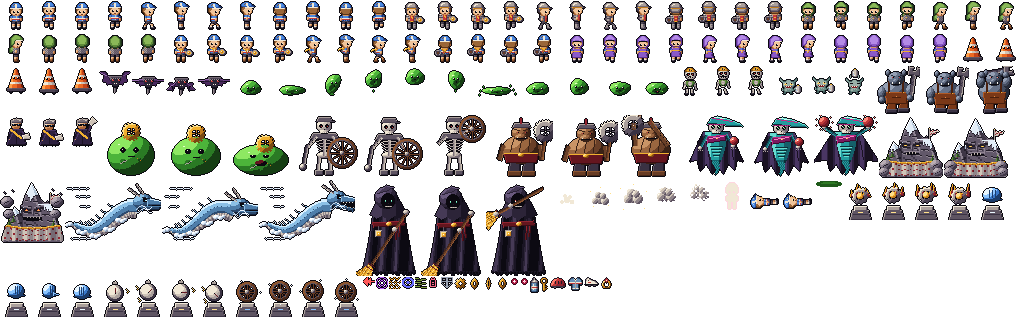
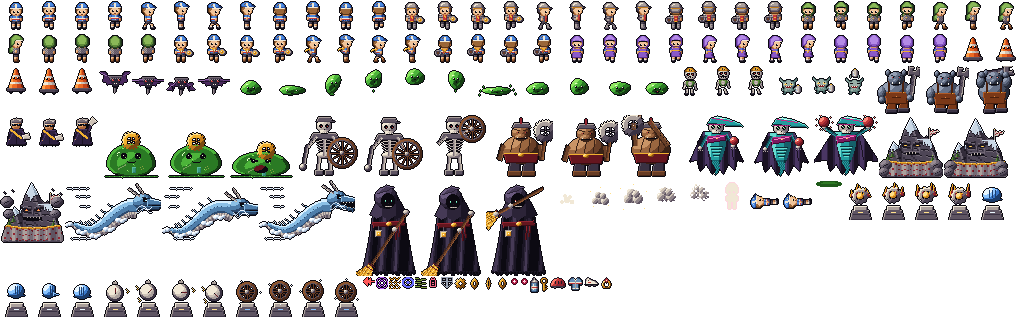
Purgatour: King Gel repaint, crisp minimap, hit flash ignores damage-over-time
- King Gel redrawn as translucent jelly with swallowed loot, bubbles and a goo puddle
- Minimap renders at whole pixels per tile with outlined rooms, a stairs icon and a pulsing hero diamond
- Hit flash fires per real hit (rate-limited, DoT ticks ignored), so burning bosses no longer look washed out
- King of the Mountains palette toned down; overlapping damage numbers spread apart

Claude-Session: https://claude.ai/code/session_01ADd9axuUZiyWLZNYirszBj

Changed region(s): [[0.0938, 0.3691, 0.2812, 0.5678], [0.8438, 0.3975, 1.0, 0.5678], [0.0, 0.5962, 0.0625, 0.7666]]

diff --git a/src/games/dungeon/render/renderer.ts b/src/games/dungeon/render/renderer.ts
@@ -163,6 +163,7 @@ export function createRenderer(): GameRenderer {
   // the DNF beat: when a run ends, the last frame freezes, the hero crumples (3-frame fall) and the screen fades before camp
   type HeroPin = { x: number; y: number; scale: number; angle: number };
   let bossChip = 1, bossChipName = '';
+  const flashAt = new Map<number, number>(), hpSeen = new Map<number, number>();
   let hideHero = false, lastRun: { s: DungeonSnapshot; bike: Readonly<BikeState>; input: Readonly<InputState> } | null = null;
   let swapFx: { t0: number; c: string; from: string } | null = null, lastStance = '';
   let lastHero: HeroPin | null = null, prevPhase = '', dnf: { t0: number; img: HTMLCanvasElement; hero: HeroPin } | null = null;
@@ -302,7 +303,11 @@ export function createRenderer(): GameRenderer {
     const fr = anim(name, st, t + e.id * 0.13, e.kind === 'bat' ? 10 : 7);
     const def = sprite2(name, fr.state, fr.idx, pal, false, scale);
     const ps = 1; // all actor pixels are the same size as one background pixel
-    const flash = e.hurt < (isBoss ? 0.035 : 0.06);
+    // hit flash: a short pop per hit, rate-limited so damage over time or rapid fire never leaves it washed out
+    // (damage-over-time ticks are too small to count as a hit)
+    let fl0 = flashAt.get(e.id) ?? -9; const hp0 = hpSeen.get(e.id) ?? e.hp; hpSeen.set(e.id, e.hp);
+    if (e.hurt < 0.06 && hp0 - e.hp > e.maxHp * (isBoss ? 0.004 : 0.03) && t - fl0 > 0.12) { fl0 = t; if (flashAt.size > 512) { flashAt.clear(); hpSeen.clear(); } flashAt.set(e.id, t); }
+    const flash = t - fl0 < 0.06;
     const bob = e.kind === 'bat' ? Math.sin(t * 14 + e.id) * TS * 0.12 : -Math.abs(Math.sin(t * 8 + e.id)) * TS * 0.05;
     shadow(x, y, e.r * TS * 0.9);
     if (e.elite) { gg.globalCompositeOperation = 'lighter'; glowAt(ELITE_COLORS[e.elite], x, y - e.r * TS, e.r * TS * (2 + Math.sin(t * 5 + e.id) * 0.2), 0.55); gg.globalCompositeOperation = 'source-over'; }
@@ -1043,27 +1048,31 @@ export function createRenderer(): GameRenderer {
     gg.globalAlpha = 1;
 
     // minimap with fog (top-right)
-    const w = s.world, mm = Math.max(1, Math.round(MM * u * 0.8));
-    const mScale = Math.min(0.55, (110 * u) / Math.max(1, w.w * mm)); // drawn at ~half size, capped at ~110u wide
-    if (!mini || mini.width !== w.w * mm) { mini = document.createElement('canvas'); mini.width = w.w * mm; mini.height = w.h * mm; }
+    // crisp: one whole number of device pixels per tile, no resampling
+    const w = s.world, mm = Math.max(1, Math.floor((118 * u) / Math.max(1, w.w)));
+    if (!mini || mini.width !== w.w * mm || mini.height !== w.h * mm) { mini = document.createElement('canvas'); mini.width = w.w * mm; mini.height = w.h * mm; }
     const m = mini.getContext('2d')!;
     m.clearRect(0, 0, mini.width, mini.height);
+    for (let i = 0; i < w.tiles.length; i++) if (w.tiles[i] === TILE.DOOR && w.rooms[w.doorRoom[i]]?.seen) { m.fillStyle = '#9a8458'; m.fillRect((i % w.w) * mm, Math.floor(i / w.w) * mm, mm, mm); }
     for (const r of w.rooms) {
       if (!r.seen) continue;
-      m.fillStyle = r.id === s.room ? '#8a8fa0' : r.cleared ? '#4a6a52' : r.boss ? '#6a3a5a' : '#555a66';
-      m.fillRect(r.x0 * mm, r.y0 * mm, r.w * mm, r.h * mm);
-      if (r.chest && !r.chest.opened) { m.fillStyle = '#ffd84a'; m.fillRect((r.chest.x - 1) * mm, (r.chest.y - 1) * mm, 2 * mm, 2 * mm); }
+      const here = r.id === s.room, fill = here ? '#6e6a84' : r.cleared ? '#3c5844' : r.boss ? '#5a2a46' : '#46445a', edge = here ? '#d8d0f0' : r.cleared ? '#6a9a72' : r.boss ? '#c0507a' : '#7a7890';
+      m.fillStyle = edge; m.fillRect(r.x0 * mm, r.y0 * mm, r.w * mm, r.h * mm);
+      m.fillStyle = fill; m.fillRect(r.x0 * mm + 1, r.y0 * mm + 1, r.w * mm - 2, r.h * mm - 2);
+      if (r.chest && !r.chest.opened) { m.fillStyle = '#2a1d00'; m.fillRect((r.chest.x - 1) * mm - 1, (r.chest.y - 1) * mm - 1, 2 * mm + 2, 2 * mm + 2); m.fillStyle = '#ffd84a'; m.fillRect((r.chest.x - 1) * mm, (r.chest.y - 1) * mm, 2 * mm, 2 * mm); }
     }
-    for (let i = 0; i < w.tiles.length; i++) if (w.tiles[i] === TILE.DOOR && w.rooms[w.doorRoom[i]]?.seen) { m.fillStyle = '#7a6a4a'; m.fillRect((i % w.w) * mm, Math.floor(i / w.w) * mm, mm, mm); }
     const br = w.rooms.find((r) => r.boss);
-    if (br?.seen) { m.fillStyle = s.stairsOpen ? '#ffd84a' : '#a07a2a'; m.fillRect((w.stairs.x - 1) * mm, (w.stairs.y - 1) * mm, 2 * mm, 2 * mm); }
-    const mw = mini.width * mScale, mh = mini.height * mScale, mx0 = W - mw - L, my0 = L, mk = mm * mScale;
-    pixelPanel(gg,mx0-3,my0-3,mw+6,mh+6,'#655572','#171320cc',dpr); hudBox(mx0 - 3, my0 - 3, mw + 6, mh + 6);
-    gg.globalAlpha = 0.8; gg.drawImage(mini, mx0, my0, mw, mh); gg.globalAlpha = 1;
+    if (br?.seen) { const sx = Math.floor(w.stairs.x) * mm, sy = Math.floor(w.stairs.y) * mm; m.fillStyle = '#0a0810'; m.fillRect(sx - mm, sy - mm, 3 * mm, 3 * mm); m.fillStyle = s.stairsOpen ? '#ffd84a' : '#a07a2a'; for (let k = 0; k < 3; k++) m.fillRect(sx - mm + k * mm, sy - mm + k * mm, (3 - k) * mm, mm); }
+    const mw = mini.width, mh = mini.height, mx0 = Math.round(W - mw - L), my0 = Math.round(L), mk = mm;
+    pixelPanel(gg,mx0-4*dpr,my0-4*dpr,mw+8*dpr,mh+8*dpr,'#655572','#120e18dd',dpr); hudBox(mx0 - 4 * dpr, my0 - 4 * dpr, mw + 8 * dpr, mh + 8 * dpr);
+    gg.imageSmoothingEnabled = false; gg.drawImage(mini, mx0, my0);
     for (const e of s.enemies) if (e.kind === 'boss' || w.rooms[s.room] && e.x >= w.rooms[s.room].x0 && e.x <= w.rooms[s.room].x0 + w.rooms[s.room].w && e.y >= w.rooms[s.room].y0 && e.y <= w.rooms[s.room].y0 + w.rooms[s.room].h) {
-      gg.fillStyle = ENEMY_TINT[e.kind] ?? '#e55'; gg.fillRect(mx0 + e.x * mk - 1, my0 + e.y * mk - 1, 2.5 * u, 2.5 * u);
+      const sz = Math.max(2, Math.round((e.kind === 'boss' ? 3 : 2) * dpr)); gg.fillStyle = ENEMY_TINT[e.kind] ?? '#e55'; gg.fillRect(Math.round(mx0 + e.x * mk - sz / 2), Math.round(my0 + e.y * mk - sz / 2), sz, sz);
     }
-    gg.fillStyle = color; gg.fillRect(mx0 + p.x * mk - 2 * u, my0 + p.y * mk - 2 * u, 4 * u, 4 * u);
+    { // the hero: an outlined diamond that pulses
+      const hx0 = Math.round(mx0 + p.x * mk), hy0 = Math.round(my0 + p.y * mk), R = Math.round((2.5 + (Math.sin(s.t * 6) > 0 ? 0.5 : 0)) * dpr);
+      for (const [rr, c] of [[R + dpr, '#0a0810'], [R, '#ffffff'], [Math.max(1, R - dpr), color]] as const) { gg.fillStyle = c; gg.beginPath(); gg.moveTo(hx0, hy0 - rr); gg.lineTo(hx0 + rr, hy0); gg.lineTo(hx0, hy0 + rr); gg.lineTo(hx0 - rr, hy0); gg.fill(); }
+    }
 
     if (s.boss && s.boss.active) {
       const BR=bossHudLayout(W,H,insetCss*dpr,hu),bw=BR.w,bx=BR.x,by=BR.y;

diff --git a/src/games/dungeon/render/fx32.ts b/src/games/dungeon/render/fx32.ts
@@ -136,7 +136,7 @@ export const isNumberText = (t: string | undefined) => !!t && /^[+-]?\d{1,6}$/.t
 export function drawNumber32(g: CanvasRenderingContext2D, text: string, color: string, x: number, y: number, k: number, big: boolean, seed: number) {
   const s = big ? 2 : 1, c = numberSprite(text, color, s);
   const rise = k < 0.35 ? 1 - (1 - k / 0.35) ** 3 : 1 - (k - 0.35) * 0.25;
-  const dx = (seed % 7 - 3) * k * 2, shake = big && k < 0.15 ? ((Math.floor(k * 60) % 2) * 2 - 1) : 0;
+  const dx = (seed % 7 - 3) * (2 + k * 2), shake = big && k < 0.15 ? ((Math.floor(k * 60) % 2) * 2 - 1) : 0;
   g.globalAlpha = k > 0.75 ? 1 - (k - 0.75) / 0.25 : 1;
   g.drawImage(c, Math.round(x - c.width / 2 + dx + shake), Math.round(y - rise * (big ? 18 : 13) - c.height));
   g.globalAlpha = 1;

diff --git a/tools/purgatour-art/bosses2.py b/tools/purgatour-art/bosses2.py
@@ -14,7 +14,7 @@ def h2(x, y, s=0):
 MOSS = R('#1a2c18', '#2e4a26', '#5e8a3a', '#9ac45a')
 
 # ------------------------------------------------------------------ King of the Mountains: a living mountain in the KOM mantle
-ROCK = R('#221d28', '#3e3646', '#62586a', '#8f8492', '#b9adb4'); SNOW = R('#6f8296', '#b4c6d8', '#e4eef8', '#ffffff')
+ROCK = R('#1c1822', '#332c3a', '#4e4656', '#706774', '#958a94'); SNOW = R('#5e6e80', '#98aabc', '#cad8e6', '#eef6ff')
 def king_of_mountains(fr=0, atk=False):
     cv = Cv(64, 64); b = fr % 2
     peaks = [(31, 3 + b), (14, 27 + b), (50, 24 + b)]
@@ -94,12 +94,12 @@ def king_of_mountains(fr=0, atk=False):
     for x in range(2, 63):
         for y in range(top(x), 62):
             if not (inside(x, y) or inside(x - 2, y) or inside(x + 2, y)) or y > 60 - (1 if (x // 3) % 2 else 0): continue
-            fold = math.sin(x * 0.55 + 0.6) ; base = 10 if fold > .55 else 9 if fold > -.35 else 8
+            fold = math.sin(x * 0.55 + 0.6) ; base = 9 if fold > .55 else 8 if fold > -.35 else 7
             if x > 46: base -= 1
             u, v = (x + (y // 5) % 2 * 3) % 6, (y - top(x)) % 5
             dot = u in (1, 2) and v in (2, 3)
             c = C(base)
-            if dot: c = RED[2] if base >= 9 else RED[1]
+            if dot: c = RED[2] if base >= 8 else RED[1]
             if y == top(x): c = GOLD[2]
             elif y == top(x) + 1: c = GOLD[1]
             cv.set(x, y, c)
@@ -303,10 +303,58 @@ def lycra_lich(fr=0, atk=False):
         cv.ell(50, 26 + f, 4, 4, orb); cv.set(48, 24 + f, hx('#ffffff'))
     return cv.done()
 
+# ------------------------------------------------------------------ King Gel: a translucent jelly king with its swallowed loot showing through
+from chars import GEL
+from bosses import chainring
+def king_gel(fr=0, atk=False):
+    cv = Cv(64, 64); sq = fr % 2
+    rx, ry = (28, 15) if atk else (24 + sq, 20 - sq)
+    cy = round(61 - ry * .62)
+    G = GEL
+    for y in range(int(cy - ry - 1), 62):
+        for x in range(int(32 - rx - 1), int(32 + rx + 2)):
+            nx, ny = (x + .5 - 32) / rx, (y + .5 - cy) / ry
+            if ny > 0: ny *= 1.6   # flatter base where it sags on the floor
+            d = nx * nx + ny * ny
+            if d > 1 or y > 61: continue
+            rim = d > .78
+            l = -.55 * nx - .6 * ny
+            k = 1
+            if rim: k = 2 if l > -.1 else 0            # bright rim on the lit side, deep edge on the dark side
+            elif d < .35: k = 2 if l > .15 else 1      # glowing core
+            if y >= 60: k = 0
+            cv.set(x, y, G[k])
+    # the things it swallowed, dimmed by the gel
+    def dim(c): return G[0] if c != G[1] else c
+    cv.line(19, cy + 4, 26, cy + 1, hx('#7aa060')); cv.set(19, cy + 5, hx('#7aa060')); cv.set(26, cy, hx('#7aa060'))   # a bone
+    for (x, y) in ((41, cy + 3), (43, cy + 2), (42, cy + 5), (44, cy + 4)): cv.set(x, y, hx('#8aa040'))                     # a coin
+    cv.poly([(33, cy + 3), (36, cy + 3), (36, cy + 8), (33, cy + 8)], [hx('#2a7a6a'), hx('#3a9a80'), hx('#5abaa0'), hx('#8adac0')], 1)   # a bidon
+    # bubbles rising inside
+    for i in range(4):
+        ph = (fr * .5 + i * .27) % 1
+        bx, by = 22 + i * 6, cy + ry * .6 - ph * ry * 1.1
+        cv.set(bx, by, G[3]); cv.set(bx + 1, by + 1, G[2])
+    # specular highlights
+    for (x, y) in ((18, cy - ry * .55), (19, cy - ry * .6), (20, cy - ry * .62), (18, cy - ry * .45)): cv.set(x, y, G[4])
+    cv.set(23, cy - ry * .78, G[3]); cv.set(24, cy - ry * .8, G[3])
+    # face
+    ey = cy - ry * .45
+    for ex in (25, 39):
+        if atk: cv.line(ex - 3, ey - 1, ex + 3, ey + 1 if ex < 32 else ey - 3, C(0), 2)
+        cv.ell(ex, ey + 1, 3, 3 if not atk else 2, [C(0)] * 4, spec=False); cv.set(ex - 1, ey, C(11)); cv.set(ex + 1, ey + 2, G[3])
+    if atk: cv.ell(32, ey + 9, 7, 4, [C(0), C(0), RED[1], RED[2]], spec=False)
+    else:
+        cv.line(29, ey + 7, 35, ey + 7, C(0)); cv.set(28, ey + 6, C(0)); cv.set(36, ey + 6, C(0))
+    # drips at the base and a goo puddle
+    for x in range(int(32 - rx - 2), int(32 + rx + 3)):   # a goo puddle where it sits
+        if cv.get(x, 61)[3] == 0: cv.set(x, 61, G[1] if x % 5 else G[2])
+    chainring(cv, 32 + (5 if atk else 0), cy - ry - 3 + (2 if atk else 0), 8)   # the crown: a big chainring
+    return cv.done()
+
 if __name__ == '__main__':
     from PIL import Image
     from chars import flash
-    fns = [king_of_mountains, headwind_wyrm, grim_sweeper, lycra_lich]
+    fns = [king_gel, king_of_mountains, headwind_wyrm, grim_sweeper, lycra_lich]
     o = Image.new('RGBA', (4 * 100 + 4, len(fns) * 100 + 4), C(3))
     for r, fn in enumerate(fns):
         for c, im in enumerate([fn(0), fn(1), fn(0, True), flash(fn(0))]): o.alpha_composite(im, (4 + c * 100, 4 + r * 100))

diff --git a/tools/purgatour-art/bosses.py b/tools/purgatour-art/bosses.py
@@ -208,7 +208,7 @@ def grim_sweeper(fr=0, atk=False):
 BOSSES = [('King Gel', king_gel), ('The Boneshaker', boneshaker), ('The Gear Masher', gear_masher), ('The Lycra Lich', lycra_lich),
           ('King of the Mountains', king_of_mountains), ('The Headwind Wyrm', headwind_wyrm), ('The Grim Sweeper', grim_sweeper)]
 import bosses2 as _B2   # round 23 repaints replace the weaker four
-BOSSES = BOSSES[:3] + [('The Lycra Lich', _B2.lycra_lich), ('King of the Mountains', _B2.king_of_mountains),
+BOSSES = [('King Gel', _B2.king_gel)] + BOSSES[1:3] + [('The Lycra Lich', _B2.lycra_lich), ('King of the Mountains', _B2.king_of_mountains),
                        ('The Headwind Wyrm', _B2.headwind_wyrm), ('The Grim Sweeper', _B2.grim_sweeper)]
 if __name__ == '__main__':
     from PIL import Image
